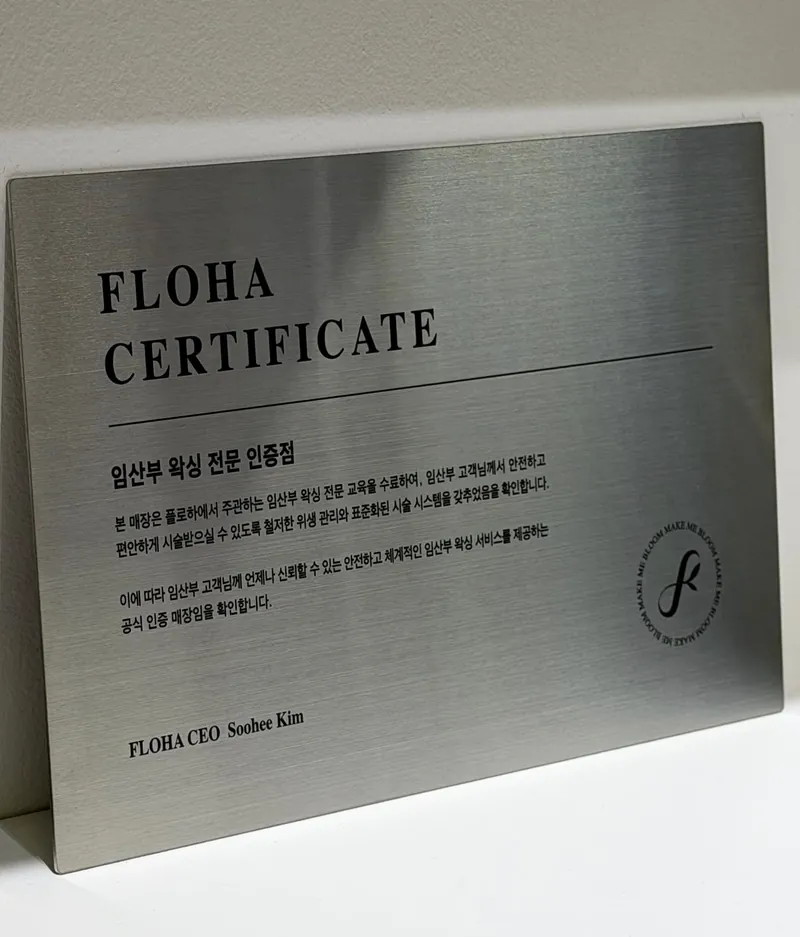
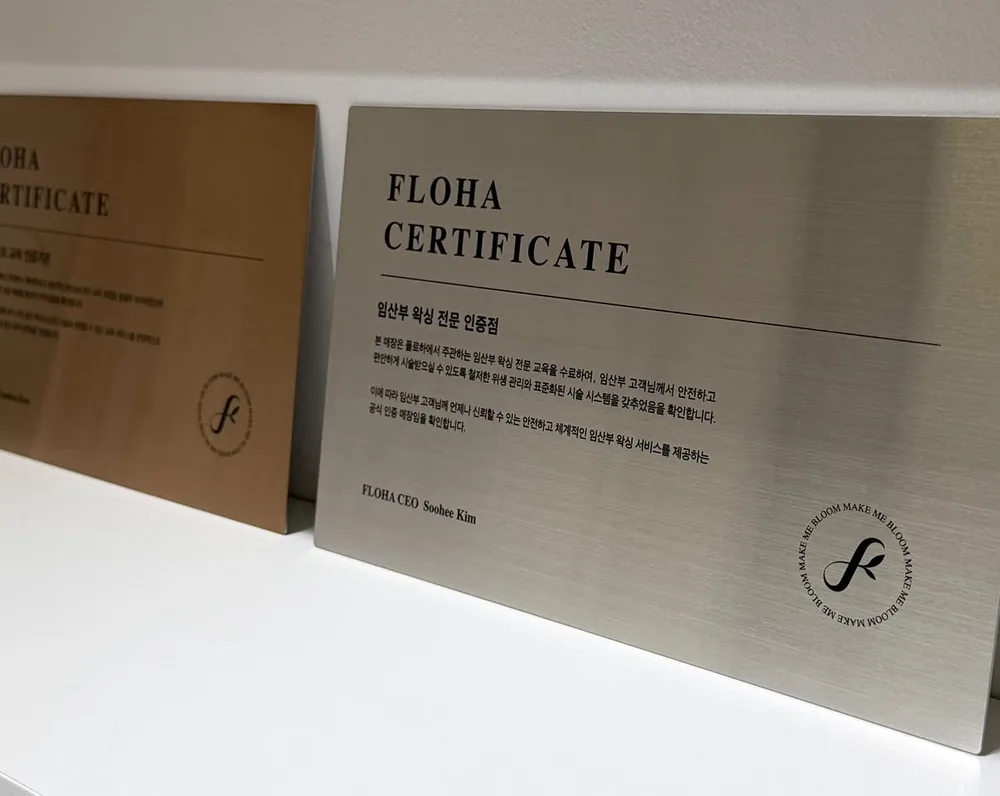
Add files via upload

diff --git a/index.html b/index.html
@@ -320,7 +320,7 @@ h2{ font-size:clamp(2.1rem,5vw,3.6rem); line-height:1.08; }
 @media (min-width:900px){ .aca-top{ grid-template-columns:1.2fr .8fr; gap:80px; align-items:end; } }
 .aca-top.pn{ margin-bottom:0; }
 .aca-top.pn img{ aspect-ratio:auto; }
-.aca-top.pn figure{ width:min(72%,320px); }
+.aca-top.pn figure{ width:min(100%,460px); }
 @media (max-width:899px){ .aca-top.pn figure{ margin:0 auto; } }
 @media (min-width:900px){ .aca-top.pn figure{ justify-self:end; } }
 .pn-sub{ margin:24px 0 0; font-size:1.08rem; font-weight:500; color:var(--ink); }
@@ -685,7 +685,7 @@ h2{ font-size:clamp(2.1rem,5vw,3.6rem); line-height:1.08; }
           <p class="pn-sub">임산부를 위한 전문 교육, 차별화된 왁싱 케어</p>
           <p class="lead" style="margin-top:14px">플로하 임산부 전문 교육을 이수한 공식 인증점입니다. 철저한 위생 관리와 체계적인 시술 시스템을 바탕으로 하드왁싱과 슈가링 중 고객님께 맞는 방식을 선택하여 진행합니다.</p>
         </div>
-        <figure class="reveal"><img loading="lazy" src="wh-pn-cert.webp" alt="FLOHA CERTIFICATE 임산부 왁싱 전문 인증점 인증패" width="800" height="937" /></figure>
+        <figure class="reveal"><img loading="lazy" src="wh-pn-cert.webp" alt="FLOHA CERTIFICATE 임산부 왁싱 전문 인증점 인증패" width="1000" height="796" /></figure>
       </div>
     </div>
     <div class="work-wrap reveal" id="pn-wrap" aria-label="임산부 고객 사진, 자동으로 흐름 · 누르고 있으면 멈춤">

diff --git a/CHANGELOG.md b/CHANGELOG.md
@@ -6,7 +6,7 @@
 - 모바일 전용 줄바꿈: 리뷰 소개 "…실제 방문자 리뷰예요." 뒤 · 아카데미 소개 "…실무 테크닉." 뒤와 "…노하우까지 나눠요." 뒤.
 - `.assetsignore`에 feedback_4 추가.
 - 시그니처 카드 형광펜 밑줄(`.hl`, 글자 아래 54% 높이 · 분홍 #EDBFCB 60%): 평균 10~15분 내외 · 불필요한 반복 도포 / C커브•라운드•내추럴 / 3가지 부위를 한 번에 · 얼굴 전체의 인상.
-- 대기: FLOHA Maternity 인증패 사진 교체(새 파일이 다운로드 폴더에 있어 접근 불가 → feedback_4로 옮겨 받기로).
+- FLOHA Maternity 인증패 사진 교체: feedback_4/850958608… → wh-pn-cert.webp(1000×796, 가로형 · 금속 인증패 2장). 세로형(800×937)에서 가로형으로 바뀌어 칸 폭 min(72%,320px) → min(100%,460px)(320px이면 너무 작아 글자가 안 읽힘).
 
 ## v0.2.11 · 2026-10-18 (다올 수정)
 - 가격표 헤이눈 줄 Signature 라벨을 이름과 한 줄로: 영문 "Hairline, forehead & brows"(라벨까지 약 300px라 모바일 칸 약 227px에 안 들어감) → "Hey-Nun" + 줄바꿈 금지. 부위 설명은 아래 한글 "헤이눈 왁싱 (헤어라인 + 이마 + 눈썹)"에 그대로.
